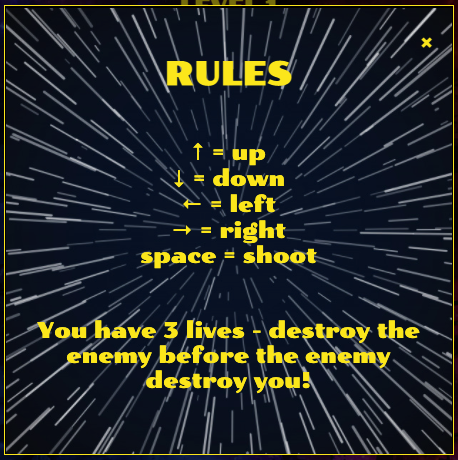
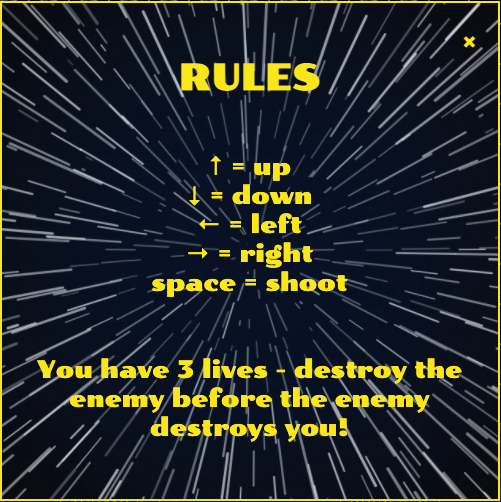
Spelling correction

Changed region(s): [[0.0, 0.0, 1.0, 1.0], [0.8253, 0.8826, 0.8559, 0.913], [0.2445, 0.1522, 0.2751, 0.1826]]

diff --git a/index.html b/index.html
@@ -95,7 +95,7 @@
               <br> space = shoot
               <br>
               <br>
-              <br> You have 3 lives - destroy the enemy before the enemy destroy you!
+              <br> You have 3 lives - destroy the enemy before the enemy destroys you!
             </p>
           </div>
         </div>

diff --git a/index2.html b/index2.html
@@ -94,7 +94,7 @@
               <br> space = shoot
               <br>
               <br>
-              <br> You have 3 lives - destroy the enemy before the enemy destroy you!
+              <br> You have 3 lives - destroy the enemy before the enemy destroys you!
             </p>
           </div>
         </div>

diff --git a/index3.html b/index3.html
@@ -94,7 +94,7 @@
               <br> space = shoot
               <br>
               <br>
-              <br> You have 3 lives - destroy the enemy before the enemy destroy you!
+              <br> You have 3 lives - destroy the enemy before the enemy destroys you!
             </p>
           </div>
         </div>

diff --git a/index4.html b/index4.html
@@ -94,7 +94,7 @@
               <br> space = shoot
               <br>
               <br>
-              <br> You have 3 lives - destroy the enemy before the enemy destroy you!
+              <br> You have 3 lives - destroy the enemy before the enemy destroys you!
             </p>
           </div>
         </div>

diff --git a/index5.html b/index5.html
@@ -83,7 +83,7 @@
               <br> space = shoot
               <br>
               <br>
-              <br> You have 3 lives - destroy the enemy before the enemy destroy you!
+              <br> You have 3 lives - destroy the enemy before the enemy destroys you!
             </p>
           </div>
         </div>
